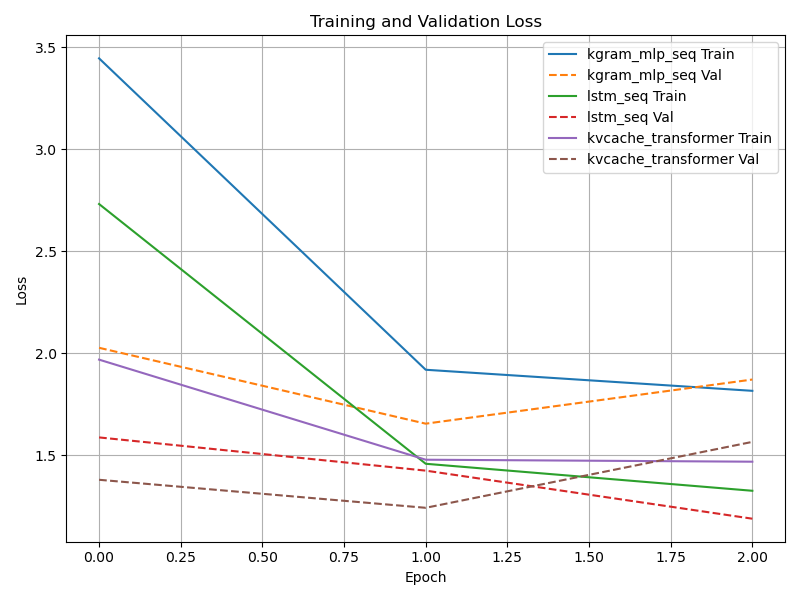
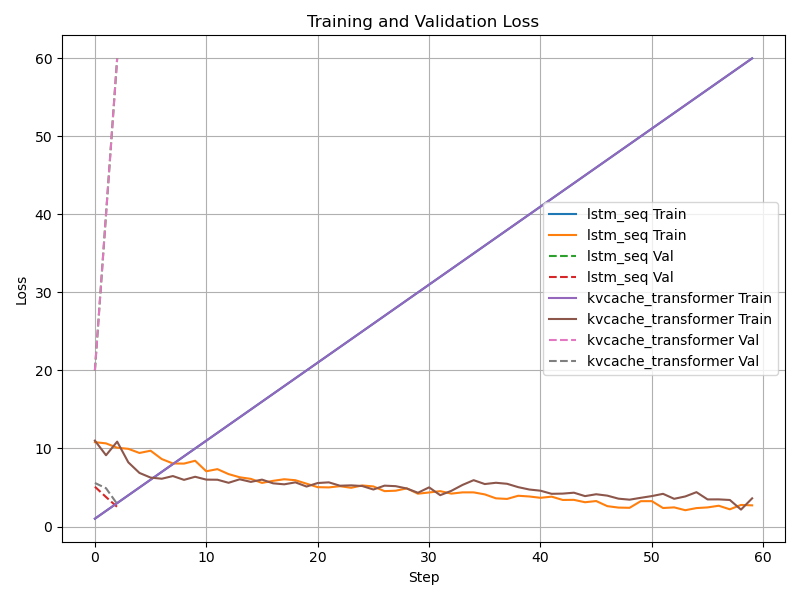
final

diff --git a/pico-llm.py b/pico-llm.py
@@ -470,6 +470,7 @@ def train_one_model(model,
             optimizer.step()
 
             total_loss += loss.item()
+            train_loss_history.append((global_step, loss.item()))
             partial_loss += loss.item()
             partial_count += 1
 
@@ -521,33 +522,24 @@ def train_one_model(model,
                 print(f"[{model_name}] Reached max_steps_per_epoch={max_steps_per_epoch}, ending epoch {epoch} early.")
                 break
 
-        avg_loss = total_loss / step_in_epoch
-        print(f"[{model_name}] *** End of Epoch {epoch} *** Avg Loss: {avg_loss:.4f}")
-
-        train_loss_history.append(avg_loss)
 
         # Simple validation (using a small fixed subset of the training data)
         if loader.dataset is not None:
             model.eval()
-            val_loss = 0.0
-            val_batches = 0
             with torch.no_grad():
                 for i, val_batch in enumerate(loader):
-                    if i >= 10:  # limit validation to 10 batches for speed
+                    if i >= 10:  # limit validation to 10 batches
                         break
-                    val_batch = val_batch.to(device)
-                    logits = model(val_batch)
-                    loss = compute_next_token_loss(logits, val_batch)
-                    val_loss += loss.item()
-                    val_batches += 1
-            val_loss /= val_batches
-            val_loss_history.append(val_loss)
-            print(f"[{model_name}] Validation Loss (approx): {val_loss:.4f}")
+                val_batch = val_batch.to(device)
+                logits = model(val_batch)
+                loss = compute_next_token_loss(logits, val_batch)
+                val_loss_history.append((global_step, loss.item()))
+
+            print(f"[{model_name}] Validation collected {len(val_loss_history)} points so far.")
+
 
     return train_loss_history, val_loss_history
-
-
-################################################################################
+###############################################################################
 # 9. Main
 ################################################################################
 
@@ -663,7 +655,7 @@ def main():
     ).to(device)
 
     models = {
-        "kgram_mlp_seq": kgram_model,
+       # "kgram_mlp_seq": kgram_model,
         "lstm_seq": lstm_model,
         "kvcache_transformer": transformer,
     }
@@ -688,7 +680,10 @@ def main():
             enc=enc,
             prompt=args.prompt  # <--- Pass the user-specified prompt here
         )
-        results[model_name] = (train_loss, val_loss)
+        results[model_name] = {
+            "train": train_loss,
+             "val": val_loss
+        }
         
         # Final generation from the user-provided prompt (args.prompt).
         with torch.no_grad():
@@ -726,11 +721,17 @@ def main():
 
     def plot_loss_curves(results, save_path="loss_curves.png"):
         plt.figure(figsize=(8,6))
-        for model_name, (train_loss, val_loss) in results.items():
+
+        for model_name, model_results in results.items():
+            train_loss = model_results["train"]
+            val_loss = model_results["val"]
+
             plt.plot(train_loss, label=f"{model_name} Train")
+
             if val_loss:
                 plt.plot(val_loss, '--', label=f"{model_name} Val")
-        plt.xlabel("Epoch")
+
+        plt.xlabel("Step")
         plt.ylabel("Loss")
         plt.title("Training and Validation Loss")
         plt.legend()
@@ -741,9 +742,5 @@ def main():
         print(f"Saved loss curves to {save_path}")
 
     plot_loss_curves(results, save_path="loss_curves.png")
-
-    print("\n*** Training complete. Loss curves saved. ***")
-
-
 if __name__ == "__main__":
     main()
